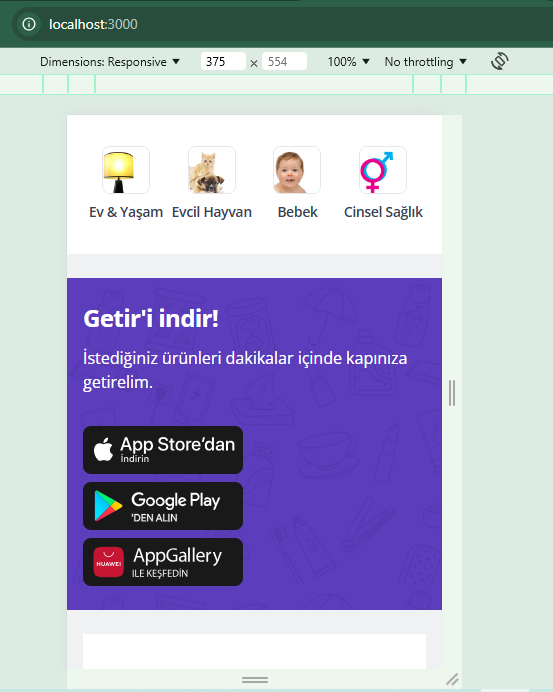
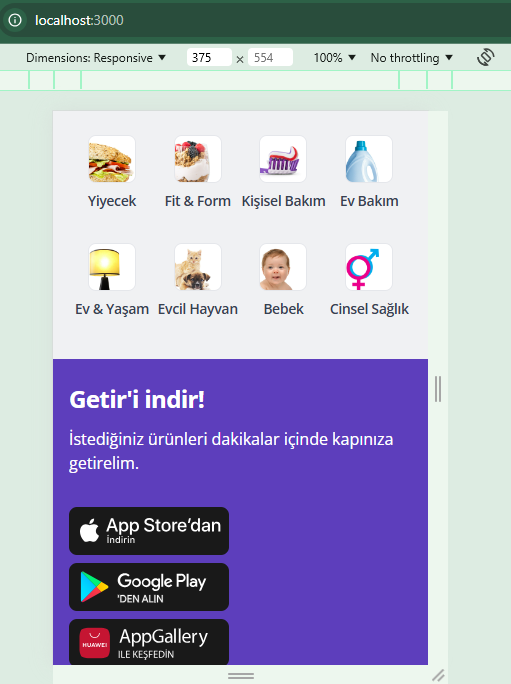
sayfalara responsive ekleniyor

diff --git a/src/pages/GetirSu/MobileApp.js b/src/pages/GetirSu/MobileApp.js
@@ -2,12 +2,12 @@ import React from 'react'
 
 const MobileApp = () => {
   return (
-    <div className='container mx-auto px-16 mb-20'>
-      <div className=' flex justify-between items-center bg-brand-color bg-mobile mt-6 rounded-lg text-white'>
-        <div className='flex flex-col gap-y-3 p-10'>
+    <div className='container mx-auto px-0 md:px-2 lg:px-4 xl:px-16 mb-8 md:mb-16'>
+      <div className=' flex justify-between items-center bg-brand-color md:bg-mobile md:mt-6 mt-0 md:rounded-lg text-white'>
+        <div className='flex flex-col gap-y-3 md:p-10  py-6 px-4'>
           <h2 className='text-2xl font-bold tracking-tight'>Getir'i indir!</h2>
           <span className='leading-6 font-semibold max-w-120'>Damacana suyunuzu GetirSu ile dakikalar içinde kapınıza getirelim.</span>
-          <div className='mt-5 flex gap-x-2'>
+          <div className='mt-5 flex md:gap-x-2 gap-y-2 flex-col md:flex-row'>
             <a href='#'>
               <img src='https://getir.com/_next/static/images/appstore-tr-141ed939fceebdcee96af608fa293b31.svg' />
             </a>
@@ -19,7 +19,7 @@ const MobileApp = () => {
             </a>
           </div>
         </div>
-        <picture className='pt-24 w-1/2'>
+        <picture className='pt-24 w-1/2 md:self-end hidden md:block'>
           <img className='' src='https://cdn.getir.com/getirweb_images/phone_tr.png'></img>
         </picture>
 

diff --git a/src/pages/GetirSu/HeroSection.jsx b/src/pages/GetirSu/HeroSection.jsx
@@ -13,8 +13,8 @@ const HeroSection = () => {
                 <div className="absolute inset-0 bg-gradient-to-r from-[#5d3ebc] to-transparent opacity-100"></div>
 
                 {/* İçerik */}
-                <div className="relative flex items-center justify-between p-28">
-                    <h3 className="text-2xl leading-loose mt-14 font-semibold text-white w-full">
+                <div className="relative flex items-center justify-between md:p-28 py-8 px-4">
+                    <h3 className="text-2xl leading-loose md:mt-14 mt-0  font-semibold text-white w-full">
                         Hizmetimizi artık sadece uygulamamız üzerinden veriyoruz. <br />
                         Şimdi Getir uygulamasını indir, siparişini ver,<br />
                         dilediğin su markası bayiden kapına gelsin.

diff --git a/src/pages/Home/MobileApp.js b/src/pages/Home/MobileApp.js
@@ -3,7 +3,7 @@ import React from 'react'
 const MobileApp = () => {
   return (
     <div className='container mx-auto px-0 md:px-2 lg:px-4 xl:px-16'>
-      <div className=' flex flex-col md:flex-row justify-between items-center bg-brand-color bg-mobile mt-6 md:rounded-lg text-white'>
+      <div className=' flex flex-col md:flex-row justify-between items-center bg-brand-color md:bg-mobile md:mt-6 mt-2 md:rounded-lg text-white'>
         <div className='flex flex-col gap-y-3 md:p-10 py-6 px-4'>
           <h2 className='text-2xl font-bold tracking-tight'>Getir'i indir!</h2>
           <span>İstediğiniz ürünleri dakikalar içinde kapınıza getirelim.</span>

diff --git a/src/pages/GetirBuyuk/MobileApp.js b/src/pages/GetirBuyuk/MobileApp.js
@@ -3,7 +3,7 @@ import React from 'react'
 const MobileApp = () => {
   return (
     <div className='container mx-auto px-0 md:px-2 lg:px-4 xl:px-16'>
-      <div className=' flex flex-col md:flex-row justify-between items-center bg-brand-color bg-mobile mt-6 md:rounded-lg text-white'>
+      <div className=' flex flex-col md:flex-row justify-between items-center bg-brand-color md:bg-mobile mt-0 md:mt-6 md:rounded-lg text-white'>
         <div className='flex flex-col gap-y-3 md:p-10 py-6'>
           <h2 className='text-2xl font-bold tracking-tight'>Getir'i indir!</h2>
           <span>Market ihtiyaçlarını kapına kadar getirelim.</span>

diff --git a/src/pages/Home/Categories.js b/src/pages/Home/Categories.js
@@ -14,7 +14,7 @@ import Category from  '../../ui/Category'
   },[]);
 
   return (
-    <div className='bg-white py-4'>
+    <div className='md:bg-white bg-light-color py-4'>
       <div className='container mx-auto px-4 xl:px-16 2xl:px-16'>
         <h3 className='font-semibold text-black-color text-sm mb-2'>Kategoriler</h3>
         <div className='grid grid-cols-4 md:grid-cols-5 lg:grid-cols-8 xl:grid-cols-10 2xl:grid-cols-10 '>

diff --git a/src/pages/GetirBuyuk/Categories.js b/src/pages/GetirBuyuk/Categories.js
@@ -14,7 +14,7 @@ import Category from  '../../ui/CategoryBuyuk'
   },[]);
 
   return (
-    <div className='bg-white py-4'>
+    <div className='md:bg-white bg-light-color py-4'>
       <div className='container mx-auto px-4 xl:px-16 2xl:px-16'>
         <h3 className='font-semibold text-sm text-black-color mb-2'>Kategoriler</h3>
         <div className='grid grid-cols-3 md:grid-cols-5 lg:grid-cols-10 xl:grid-cols-10'>

diff --git a/src/components/Footer.js b/src/components/Footer.js
@@ -52,7 +52,7 @@ const Footer = () => {
 
   return (
     <div className="bg-white">
-      <div className="container mx-auto px-4 md:px-0">
+      <div className="container mx-auto p-4 md:px-0">
         <div className="grid gap-y-6 md:grid-cols-4 md:gap-x-2 pt:5 md:pt-10 px-0 md:px-4 xl:px-16">
           <DownloadLinks />
           {menus.map((menu, index) => (
